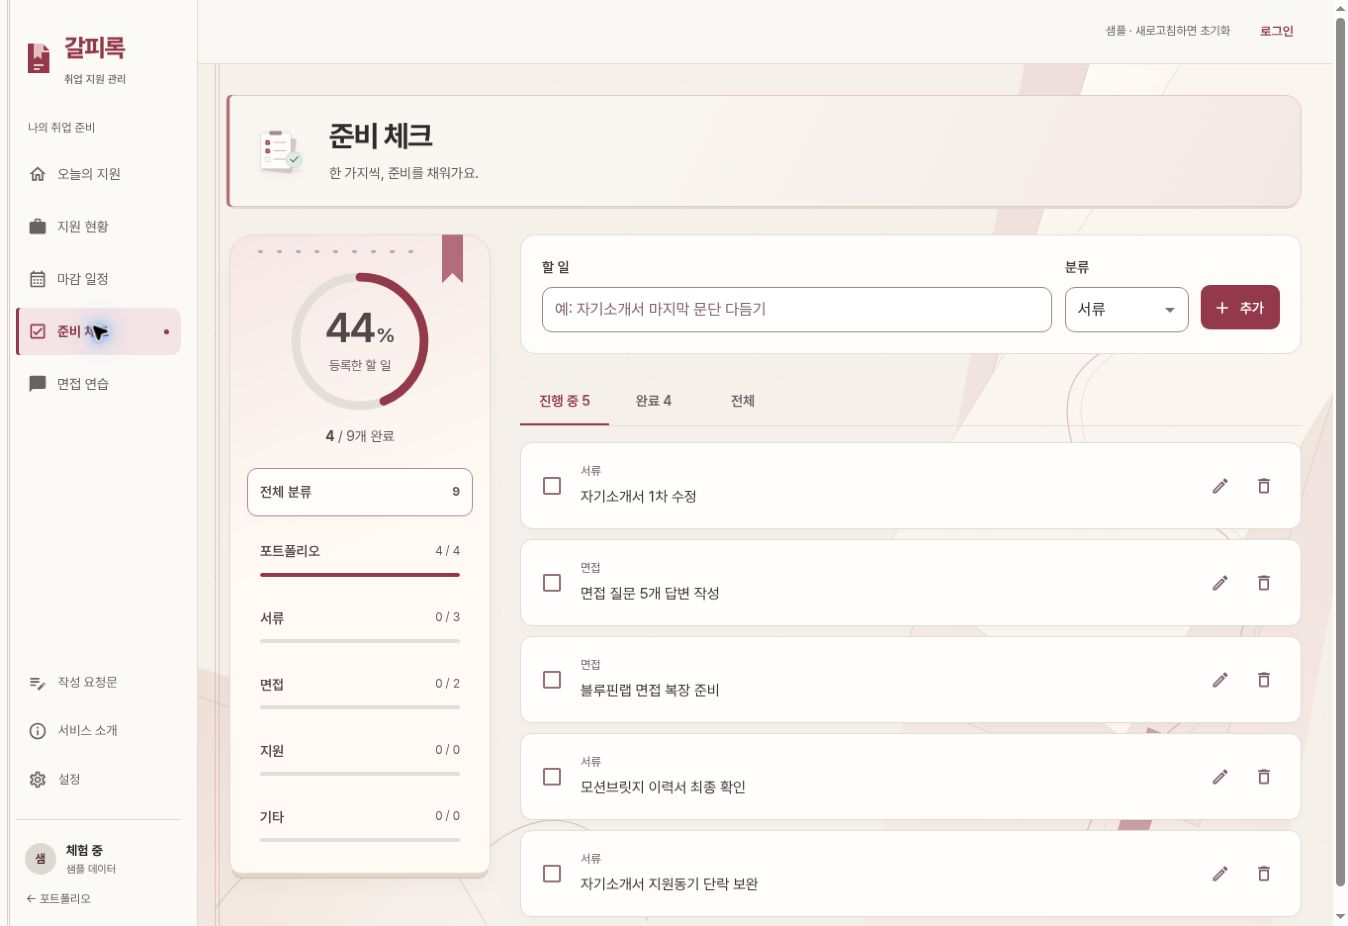
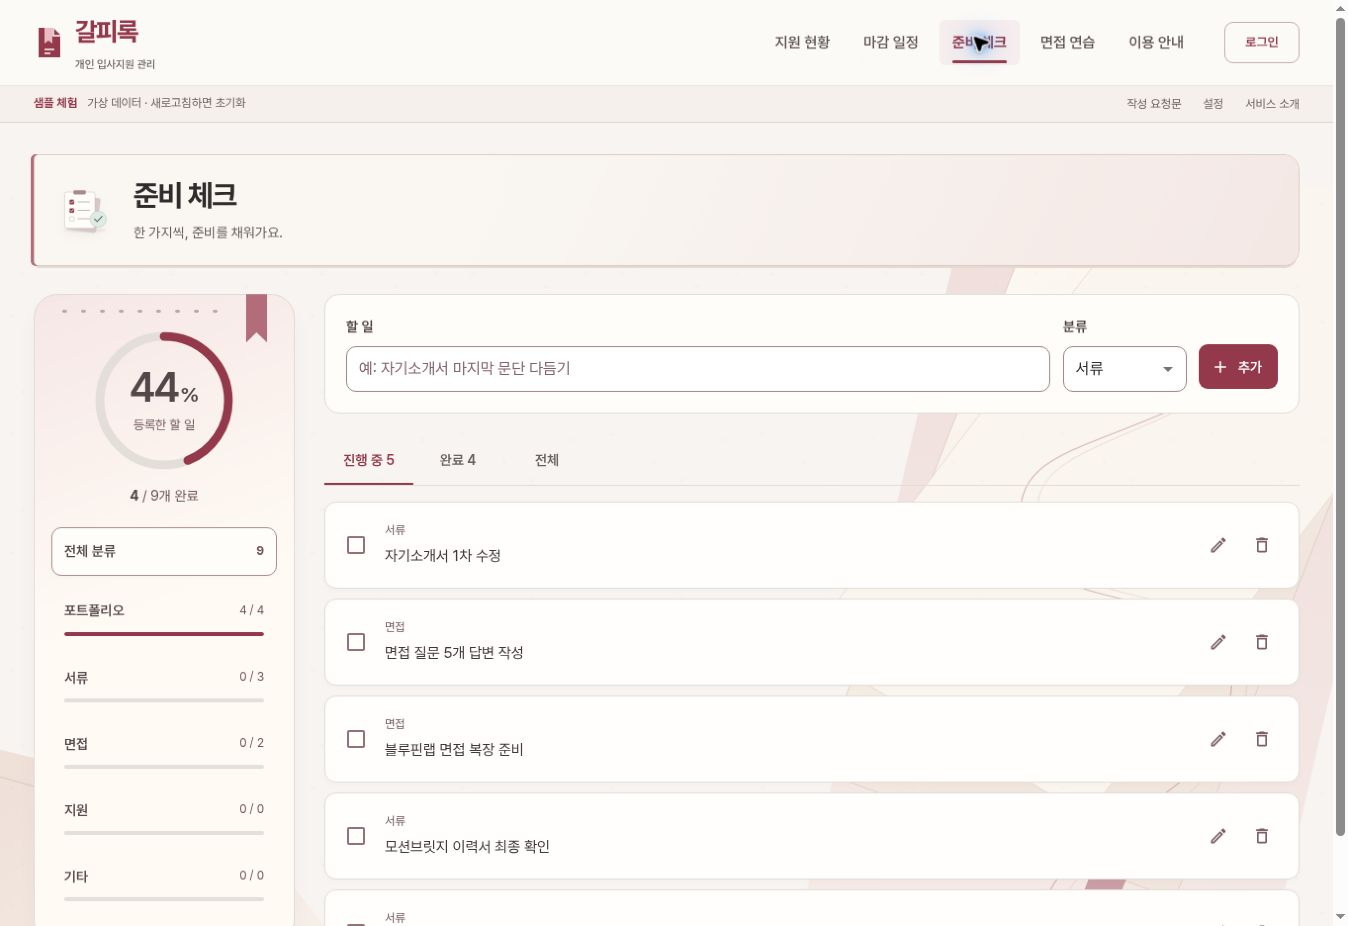
Polish Galpirok copy and synchronize portfolio captures

diff --git a/projects/my-portfolio/src/data/portfolioMeta.js b/projects/my-portfolio/src/data/portfolioMeta.js
@@ -225,7 +225,7 @@ export const PROJECT_DETAIL_READY = {
   },
   jobflow: {
     sectionHeadings: {
-      context: ['흩어진 지원 기록을, 한곳에서.'],
+      context: ['나의 입사 지원을, 한곳에서.'],
       decisions: ['다음 행동을 찾는 세 가지 화면.'],
       screens: ['오늘의 할 일부터 회사별 기록까지.'],
       scope: ['체험할 수 있는 기능과 구현 범위.'],
@@ -238,15 +238,15 @@ export const PROJECT_DETAIL_READY = {
       data: 'SUPABASE / SAMPLE',
     },
     hero: {
-      summary: '지원 회사와 마감, 준비할 일을 한곳에서 정리하는 취업 준비 기록장입니다. 가입 없이 샘플을 편집하며 주요 흐름을 체험할 수 있습니다.',
+      summary: '지원할 회사와 전형 상태, 마감·준비할 일을 정리하는 개인 입사 지원 관리 웹앱입니다. 가입 없이 샘플을 편집해볼 수 있습니다.',
       media: [
-        { src: 'detail/galpirok-board-pc.jpg', alt: '갈피록 지원 현황 — 샘플 회사의 전형 상태와 마감일을 분류함으로 보여주는 PC 화면', aspectRatio: '1348 / 926', objectFit: 'contain', objectPosition: 'top' },
+        { src: 'detail/galpirok-welcome-pc.jpg', alt: '갈피록 첫 화면 — 개인 입사지원 관리 소개와 지원 현황 미리보기', aspectRatio: '1348 / 926', objectFit: 'contain', objectPosition: 'top' },
       ],
       mediaLabel: 'PC 실행 화면 · 가상 샘플 데이터',
     },
     context: {
       problem: '지원 회사와 준비할 일이 흩어지면 현재 상태와 가까운 마감을 함께 확인하기 어렵습니다.',
-      goal: '오늘 할 일 → 회사별 진행 상태 → 준비 체크를 명확하게 나눠 보여줍니다.',
+      goal: '회사 등록과 지원 상태 확인, 준비 작업을 이어갈 수 있도록 구성합니다.',
     },
     decisions: [
       {
@@ -255,14 +255,14 @@ export const PROJECT_DETAIL_READY = {
         reason: '전체 기록을 읽기 전에 다음 행동을 찾도록',
         verificationLabel: '구현',
         verification: '오늘의 지원에서 마감·할 일을 확인하고 관련 화면으로 이동',
-        media: { src: 'detail/galpirok-overview-pc.jpg', alt: '갈피록 오늘의 지원 — 가까운 지원 마감과 준비할 일을 보여주는 샘플 PC 화면', aspectRatio: '1363 / 936' },
+        media: { src: 'detail/galpirok-overview-pc.jpg', alt: '갈피록 오늘의 지원 — 가까운 지원 마감과 준비할 일을 보여주는 샘플 PC 화면', aspectRatio: '1348 / 926' },
       },
       {
         title: '회사마다 진행 상태를 구분합니다.',
-        choice: '네 전형 분류함과 별도 보류함, 회사 상세 패널',
-        reason: '회사별 상태를 비교하고 필요한 기록만 펼치도록',
+        choice: '지원 전·서류·면접·결과 분류와 별도 보류함',
+        reason: '전형별 이름·색으로 상태를 구분하고 회사별 기록을 펼치도록',
         verificationLabel: '구현',
-        verification: '회사·직무 검색, 상태 변경, 마감·제출물·메모 관리',
+        verification: '회사 등록·검색, 상세 패널에서 상태·마감·제출물 관리',
         media: { src: 'detail/galpirok-board-pc.jpg', alt: '갈피록 지원 현황 — 네 전형 분류함과 샘플 회사 카드가 보이는 PC 화면', aspectRatio: '1348 / 926' },
       },
       {
@@ -275,7 +275,7 @@ export const PROJECT_DETAIL_READY = {
       },
     ],
     mainScreens: [
-      { label: '오늘의 지원', media: { src: 'detail/galpirok-overview-pc.jpg', alt: '갈피록 오늘의 지원 샘플 PC 화면', aspectRatio: '1363 / 936' } },
+      { label: '오늘의 지원', media: { src: 'detail/galpirok-overview-pc.jpg', alt: '갈피록 오늘의 지원 샘플 PC 화면', aspectRatio: '1348 / 926' } },
       { label: '지원 현황', media: { src: 'detail/galpirok-board-pc.jpg', alt: '갈피록 지원 현황 샘플 PC 화면', aspectRatio: '1348 / 926' } },
       { label: '준비 체크', media: { src: 'detail/galpirok-checklist-pc.jpg', alt: '갈피록 준비 체크 샘플 PC 화면', aspectRatio: '1348 / 926' } },
     ],
@@ -295,7 +295,7 @@ export const PROJECT_DETAIL_READY = {
       { label: '검증 범위', value: '샘플 UI 검수와 실제 계정·DB 검증을 구분합니다. 현재 인증·모바일 실기기 검증은 별도 과제입니다.' },
     ],
     resultLimit: {
-      done: '지원 상태·마감·준비 기록을 한 서비스로 구성하고, 로그인 없이 편집 가능한 샘플을 제공합니다.',
+      done: '개인 입사 지원 기록을 상단 메뉴로 나누고, 이용 안내와 편집 가능한 샘플로 주요 작업을 체험하도록 구현했습니다.',
       limit: '샘플은 실제 사용자 데이터가 아닙니다. 요청문 만들기는 로컬 템플릿이며 제품 내 AI 호출은 없습니다. 사용자 조사와 성과 측정은 수행하지 않았습니다.',
     },
   },

diff --git a/projects/jobflow-dashboard/src/pages/DashboardPage.jsx b/projects/jobflow-dashboard/src/pages/DashboardPage.jsx
@@ -51,8 +51,8 @@ export default function DashboardPage() {
       <section className="prep-banner" aria-labelledby="prep-banner-title">
         <PaperGraphic kind="check" className="prep-banner-art" />
         <div className="prep-banner-copy">
-          <h2 id="prep-banner-title">지원 전에, 제출할 자료부터.</h2>
-          <p>회사별로 이력서·포트폴리오 준비 여부를 표시해두세요.</p>
+          <h2 id="prep-banner-title">지원 기록에, 제출 자료도 함께.</h2>
+          <p>회사별로 이력서·포트폴리오 제출 여부를 확인하세요.</p>
         </div>
         <Button component={Link} to="/" variant="contained" className="prep-banner-action">지원 현황 확인</Button>
       </section>

diff --git a/projects/jobflow-dashboard/src/styles/navigation.css b/projects/jobflow-dashboard/src/styles/navigation.css
@@ -1,4 +1,6 @@
 /* One navigation system for the introduction and the signed-in workspace. */
+html { scroll-padding-top: 140px; }
+.workspace-main button, .workspace-main input, .workspace-main a { scroll-margin-top: 140px; }
 .site-header { position: sticky; top: 0; z-index: 1100; background: #FCFAF7; color: #302B2C; border-bottom: 1px solid #DED6CF; }
 .site-header-inner, .site-header-meta-inner { width: min(1280px, calc(100% - 64px)); margin-inline: auto; }
 .site-header-inner { min-height: 86px; display: flex; align-items: center; gap: 28px; }

diff --git a/projects/my-portfolio/README.md b/projects/my-portfolio/README.md
@@ -67,7 +67,11 @@ Portfolio Feedback Hub의 공개 목록·상세는 읽기 전용으로 운영합
 
 갈피록은 기존 `jobflow` 상세 slug와 `jobflow-dashboard` 배포 경로를 유지합니다. 공개 이름·소개·대표 이미지는 현재 갈피록 웹앱과 맞춥니다. 지원 마감일 달력은 제공하지만 면접 일정 등록은 제공하지 않습니다. 샘플은 브라우저 메모리에서 편집 가능하며 새로고침·샘플 초기화 시 복원됩니다. 작성 요청문 만들기는 로컬 템플릿이고 제품 내 AI 호출은 없습니다. AI의 디자인 제안·검토, 그래픽 제작, 코드 작성·검사 참여를 공개하며 사용자의 요구사항·피드백·방향 선택·공개 승인과 구분합니다.
 
-갈피록 소개에는 `public/detail/galpirok-{overview,board,checklist}-pc.jpg` PC 실행 캡처를 사용합니다. 이전 JobFlow 390/1440px 캡처와 과거 검증 기록을 현재 디자인의 검증 증거로 재사용하지 않습니다. 현행 인증·DB 저장과 모바일 실기기 검증은 별도 과제로 표시합니다. 기존 이미지 파일은 이 갱신에서 삭제하지 않습니다.
+갈피록의 현재 웹 구성은 개인 입사 지원 관리에 맞춰 상단 주 메뉴를 지원 현황·마감 일정·준비 체크·면접 연습·이용 안내로 나눕니다. 체험 진입 후 로고는 오늘의 지원(`/overview`)으로 이동하며, 첫 방문에는 서비스 소개를 엽니다. 소개 상단의 제품 미리보기와 간결한 입사 지원 설명, 지원 전(블루)·서류(로즈)·면접(앰버)·결과(세이지)의 전형별 색상을 적용합니다. 장식 화살표는 줄이고 달력·면접의 실제 이전/다음 조작은 유지합니다.
+
+이번 갱신에서 소개 문구와 PC 캡처를 위 구현에 맞췄습니다. `97cd7f5` 공개 앱에서 메뉴·회사 기록·마감·할 일·면접의 샘플 UI를 검수했습니다. 상세 실행 범위는 앱 README에 기록하며 실제 인증·모바일 검수 완료를 뜻하지 않습니다.
+
+갈피록 소개에는 `public/detail/galpirok-{welcome,overview,board,checklist}-pc.jpg` PC 실행 캡처를 사용합니다. 이전 JobFlow 390/1440px 캡처와 과거 검증 기록을 현재 디자인의 검증 증거로 재사용하지 않습니다. 현행 인증·DB 저장과 모바일 실기기 검증은 별도 과제로 표시합니다. 기존 이미지 파일은 이 갱신에서 삭제하지 않습니다.
 
 
 고정된 내부 경로 이동(홈으로 돌아가기, 대표 프로젝트 상세 보기, 다음 프로젝트, 404의 홈/전체 프로젝트)은 모두 React Router `Link`로 구현해 실제 `<a href>`를 렌더합니다(새 탭 열기·주소 복사·기본 브라우저 동작 지원). 조건에 따라 다른 곳으로 이동하는 Detail의 "스마트 뒤로가기"만 버튼으로 유지합니다.
@@ -125,4 +129,6 @@ npm run build
 - `tools/site-audit-kit`의 `npm run audit:detailed` 전체 검사는 배포 전 또는
   반응형 회귀 조사에만 실행한다.
 
-갈피록 캡처 출처(2026-10-07): 직접 운영하는 공개 GitHub Pages의 가상 샘플 화면입니다. overview는 `b3b4e91` 배포에서 1363×936px, board/checklist는 `ab744ab` 배포에서 각각 1348×926px JPEG 원본을 저장했습니다. 확대·재생성하지 않았고 실제 저장된 픽셀 비율로 표시합니다. 다른 제작자의 화면이나 이미지를 옮겨 쓰지 않았습니다.
+이전 갱신의 갈피록 캡처 출처(2026-10-07): 직접 운영하는 공개 GitHub Pages의 가상 샘플 화면입니다. overview는 `b3b4e91` 배포에서 1363×936px, board/checklist는 `ab744ab` 배포에서 각각 1348×926px JPEG 원본을 저장했습니다. 확대·재생성하지 않았고 실제 저장된 픽셀 비율로 표시합니다. 다른 제작자의 화면이나 이미지를 옮겨 쓰지 않았습니다.
+
+현행 캡처(2026-10-07): `97cd7f5`의 welcome/overview/board/checklist를 직접 브라우저 캡처했습니다. 모두 실제 JPEG 1348×926px이며 확대·이미지 생성·텍스트 교체 없이 저장했습니다. CSS viewport 1363×936과 저장된 픽셀 크기는 구분합니다.

diff --git a/projects/jobflow-dashboard/README.md b/projects/jobflow-dashboard/README.md
@@ -10,7 +10,9 @@
 - 첨부 참고의 밝은 작업면과 분류색 연결 원리를 적용했습니다. 크랜베리 브랜드색, 하늘색 지원 전, 로즈 서류 전형, 앰버 면접, 세이지 결과로 정리하고 텍스트 상태명을 함께 표시합니다. 참고 이미지의 워터마크·UI·그림은 복제하지 않았습니다.
 - 소개에는 첫 회사 등록 배너, 오늘의 지원에는 제출 자료 확인 배너를 추가했습니다. 허구의 채용 이벤트·혜택·성과를 만들지 않았으며 기존 원본 자산만 재사용합니다.
 - 참고: [Linear, 2026-03-12](https://linear.app/now/behind-the-latest-design-refresh)의 작업 우선 위계, [Webflow 2026](https://webflow.com/blog/web-design-trends-2026)의 고유한 시각 체계, [Teal Job Tracker](https://www.tealhq.com/tools/job-tracker)의 명확한 제품 범주를 검토했습니다. 첨부 자료에 보이는 2020·2022년 UI를 2026년 사례로 주장하지 않습니다.
-- 코드 lint 오류 0(기존 Fast Refresh 경고 1), production build 성공(기존 큰 번들 경고). 브라우저 검사 결과는 배포 후 별도로 갱신합니다. 인증·DB·패키지·Figma는 변경하지 않았습니다.
+- 코드 lint 오류 0(기존 Fast Refresh 경고 1), production build 성공(기존 큰 번들 경고). 고정 텍스트/배경 10쌍의 계산 대비는 4.60:1~10.89:1이며 전체 접근성 인증은 아닙니다.
+- `97cd7f5` 공개 배포를 Chrome CSS viewport 1363×936에서 점검했습니다. 상단 5메뉴·로고 홈 이동·비회원 메뉴의 샘플 진입, 미리보기 3탭, 두 등록/준비 배너 연결, 샘플 회사 등록·검색·메모/제출 상태 수정·재열기·삭제, 마감 날짜 선택·다음 달 이동, 할 일 완료율 변경, 면접 답변 펼치기·다음 질문, 샘플 초기화를 직접 실행했습니다. 임시 회사는 삭제하고 변경한 할 일은 초기화했습니다.
+- 로그인·가입의 빈 입력 검증, 이메일 입력 16px/줄 높이 24px/높이 50px, PC의 폰트 로드와 소개·현황판 가로 넘침을 확인했습니다. 실제 계정 생성/인증·DB 저장과 모바일 뷰포트 검사는 미완료입니다. 인증·DB·패키지·Figma는 변경하지 않았습니다.
 
 ## 화면 마감과 포트폴리오 정렬 (2026-10-07)
 

diff --git a/projects/jobflow-dashboard/NOTICE.md b/projects/jobflow-dashboard/NOTICE.md
@@ -12,6 +12,8 @@
 
 ## 현재 자산 역할과 확인 범위
 
+2026-10-07 상단 메뉴/소개 개편: 사용자 첨부의 워터마크 있는 UI 이미지는 색상 위계와 배치 원리만 참고했고 다운로드 자산을 제품에 포함하지 않았습니다. 새 배너는 기존 `galpi-rose-archive.webp`와 직접 작성한 `PaperGraphic`을 재배치했습니다. 신규 장식은 CSS 면·책갈피·분류색이며, 외부 행사·채용 정보를 실제 이벤트로 표시하지 않습니다. 포트폴리오의 현행 PC 캡처는 중앙 등록부의 2026-10-07 항목을 따릅니다.
+
 | 자산 | 역할 | 현재 확인 범위 |
 | --- | --- | --- |
 | `public/galpirok-favicon.svg`, `public/favicon.svg` | 갈피록 favicon (새 파일명으로 이전 아이콘 캐시와 분리) | 2026-09-27 이번 작업에서 단순 도형과 path로 새로 작성한 AI 보조 SVG입니다. 외부 이미지 입력 없음. |
